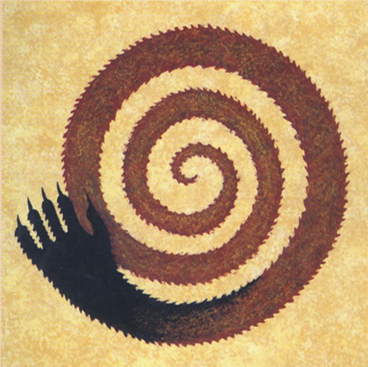
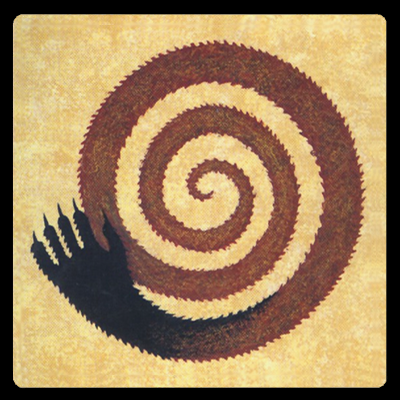
Added original card back + responsivity on client mockup

diff --git a/maquettes/cardScreen.html b/maquettes/cardScreen.html
@@ -2,8 +2,15 @@
 <html>
     <body>
         <style>
-            html {
+            .container {
+                position: absolute;
+                top:0;
+                left:0;
+                right:0;
+                bottom:0;
+
                 overflow: hidden;
+                border: 20px solid black;
             }
             /* entire container, keeps perspective */
             .flip-container {
@@ -18,8 +25,8 @@
             }
 
             .flip-container, .front, .back {
-                width: 320px;
-                height: 480px;
+                width: 400px;
+                height: 400px;
             }
 
             /* flip speed goes here */
@@ -51,17 +58,21 @@
                 transform: rotateY(180deg);
             }
         </style>
-        <div class="flip-container" ontouchstart="this.classList.toggle('hover');">
-        	<div class="flipper">
-        		<div class="front">
-        			<!-- front content -->
-                    <img src="../assets/cartes/petitefille.png">
-        		</div>
-        		<div class="back">
-        			<!-- back content -->
-                    <img src="../assets/cartes/loupgarou.png">
-        		</div>
-        	</div>
+
+        <div class="container">
+            <div class="flip-container" ontouchstart="this.classList.toggle('hover');">
+            	<div class="flipper">
+            		<div class="front">
+            			<!-- front content -->
+                        <img src="../assets/cartes/dos.png">
+            		</div>
+            		<div class="back">
+            			<!-- back content -->
+                        <img src="../assets/cartes/loupgarou.png">
+            		</div>
+            	</div>
+            </div>
         </div>
+
     </body>
 </html>
